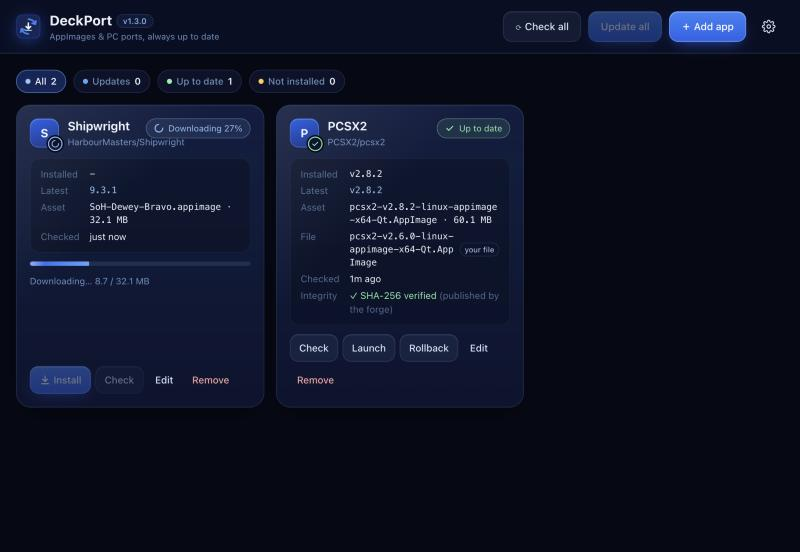
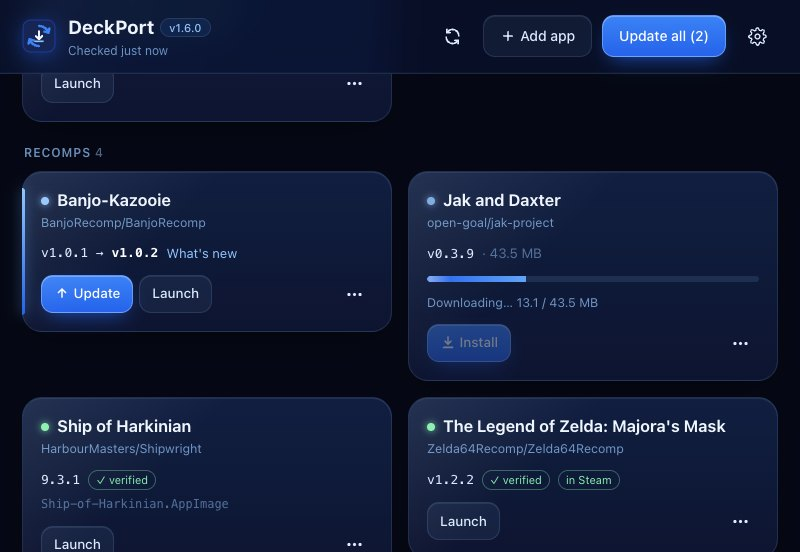
DeckPort 1.6.0: version bump and new screenshots
Bump to 1.6.0 for the Recomp Haven tab, folder-port program choice,
release filters, repo-move notice, categories and Select mode.
Screenshots retaken at 1280x800 from a real install (overview,
Recomp Haven, Select mode, Choose program for OpenGOAL, found AppImages,
download and installed states); the old catalog screenshot is gone.

diff --git a/deckport.py b/deckport.py
@@ -41,7 +41,7 @@ import zlib
 from http.server import BaseHTTPRequestHandler, ThreadingHTTPServer
 from pathlib import Path
 
-VERSION = "1.5.0"
+VERSION = "1.6.0"
 CONFIG_DIR = Path(os.environ.get("XDG_CONFIG_HOME") or Path.home() / ".config") / "deckport"
 CONFIG_FILE = CONFIG_DIR / "config.json"
 DEFAULT_PORT = 8765

diff --git a/README.md b/README.md
@@ -14,7 +14,7 @@ Mirip Obtainium, tapi untuk Steam Deck: tempel link rilisnya atau pilih recomp d
 
 [Install](#-install) · [Cara pakai](#-cara-pakai) · [Recomp Haven](#-recomp-haven) · [Port berbentuk folder](#-port-berbentuk-folder-zip--targz) · [Sudah punya AppImage?](#-sudah-punya-appimage-nya) · [CLI](#-cli) · [FAQ](#-faq)
 
-<img src="docs/screenshots/overview.jpg" alt="DeckPort: daftar app dengan status update, up to date, belum terpasang, dan error" width="860">
+<img src="docs/screenshots/overview.jpg" alt="DeckPort: daftar app per kategori, dengan status update, up to date, dan belum terpasang" width="860">
 
 </div>
 
@@ -24,7 +24,7 @@ PC port dan emulator di GitHub rilis update terus. Tanpa DeckPort, setiap update
 
 DeckPort mengerjakan semua itu dengan satu klik **Update all**, atau bahkan otomatis dari Game Mode.
 
-## 🆕 Yang baru (di `main`, belum dirilis)
+## 🆕 Yang baru di v1.6.0
 
 - **Tab Recomp Haven.** Jelajahi ratusan recomp dan PC port yang punya rilis Linux, lengkap dengan tier, cover, dan konsolnya, lalu tambahkan dengan satu klik. Datanya dari [Recomp Haven](https://recomphaven.com/). [Selengkapnya](#-recomp-haven)
 - **Port berbentuk folder bisa masuk Steam.** Pilih sendiri program yang dijalankan (`.sh`, binary Linux, atau `.exe` lewat Proton) dengan **Choose program…**. [Selengkapnya](#-port-berbentuk-folder-zip--targz)
@@ -151,6 +151,8 @@ Kartu hanya menampilkan yang penting: status, versi, tombol **Install/Update** d
 - Beri app kategori lewat **⋯** → **Category…** (atau di **Edit**). Begitu ada kategori, daftar app dikelompokkan per kategori; app tanpa kategori masuk ke **Other**.
 - Klik **Select** di kanan atas daftar, lalu klik kartu-kartu yang mau dipilih. Bar di bawah berisi **Check**, **Update**, **Category…**, dan **Remove…** untuk semua yang dipilih.
 
+<img src="docs/screenshots/select.jpg" alt="Mode Select: tiga app dipilih, dengan bar aksi di bawah" width="720">
+
 ### Memilih rilis
 
 Di **⋯** → **Edit** → **Advanced**:
@@ -172,9 +174,12 @@ Preview di dialog langsung menunjukkan rilis dan file mana yang akan dipakai.
 
 <a href="https://recomphaven.com/"><b>Recomp Haven</b></a> (oleh [rikuwru](https://github.com/rikuwru/recomphaven)) melacak semua game recompilation dan PC port, lengkap dengan tier kualitas, stage, dan apa yang dibutuhkan untuk memainkannya. DeckPort punya tab **Recomp Haven** sendiri yang menampilkan daftar itu.
 
+<img src="docs/screenshots/recomphaven.jpg" alt="Tab Recomp Haven: recomp dengan cover, tier, konsol, dan tombol Add" width="860">
+
 - Yang ditampilkan hanya project dengan **rilis Linux di GitHub**, diurutkan dari tier terbaik (**S · Definitive**, **A · Complete**, **B · Playable**, **C–D · Early**). Project yang ketahuan membagikan file game (ROM/ISO) tidak ditampilkan, sama seperti di situsnya.
 - Cari berdasarkan nama game, project, atau konsol, saring per tier, atau tampilkan yang bertanda **Steam Deck** saja.
 - Klik **Add** dan app-nya langsung masuk ke **My apps**. **Details ↗** membuka halaman game-nya di recomphaven.com.
+- Beberapa project hanya merilis build Linux dalam bentuk Flatpak (misalnya Sonic Unleashed Recompiled). DeckPort tidak memakai Flatpak, jadi app seperti itu akan menampilkan error "No matching Linux asset".
 - Datanya diambil dari [data publik Recomp Haven](https://github.com/rikuwru/recomphaven) dan disimpan sehari (`~/.config/deckport/recomphaven.json`). Tombol **Refresh** mengambil ulang. Kalau sedang offline, daftar yang tersimpan tetap tampil.
 
 Daftar, tier, dan ringkasannya milik Recomp Haven (berbasis [Recompendium](https://github.com/nio03/unricopie), lisensi MIT). Box art milik publisher masing-masing game. Setiap recomp butuh salinan game milikmu sendiri: DeckPort hanya mengunduh program recomp-nya.
@@ -184,7 +189,9 @@ Daftar, tier, dan ringkasannya milik Recomp Haven (berbasis [Recompendium](https
 Banyak port dirilis sebagai arsip, bukan AppImage. DeckPort mengekstraknya ke `~/Applications/<Nama>/` dan, saat update, menimpa file lama tanpa menyentuh save dan config.
 
 - DeckPort mencari program utamanya sendiri, lalu membuat launcher tetap `~/Applications/<Nama>.sh`. Shortcut Steam menunjuk ke launcher ini, jadi tetap jalan setelah update.
-- Tebakannya salah? **⋯** → **Choose program…** menampilkan semua program di folder itu (binary Linux, skrip `.sh`, dan `.exe`). Pilihanmu diingat di setiap update.
+- Tebakannya salah? **⋯** → **Choose program…** menampilkan semua program di folder itu (binary Linux, skrip `.sh`, dan `.exe`). Pilihanmu diingat di setiap update. Contohnya OpenGOAL: rilisnya berisi `goalc` (compiler), `gk` (game-nya), dan `extractor`, jadi pilih `gk`.
+
+<img src="docs/screenshots/program.jpg" alt="Dialog Choose program untuk OpenGOAL dengan gk dipilih" width="720">
 - Memilih **`.exe`** berarti game Windows: **Add to Steam** membuat shortcut langsung ke `.exe` itu. Dari plugin Decky, Proton Experimental langsung diaktifkan. Dari Desktop Mode, aktifkan sendiri di Steam: **Properties** → **Compatibility** → **Force Proton**.
 
 ## 📁 Sudah punya AppImage-nya?
